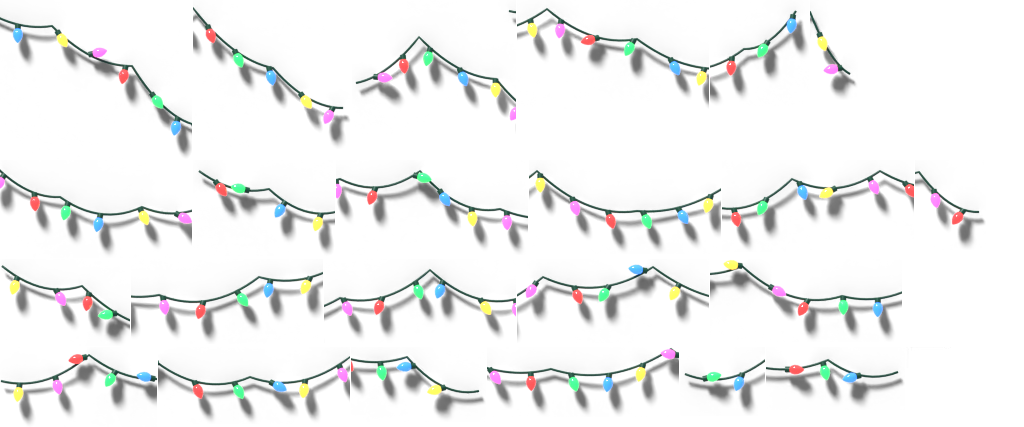
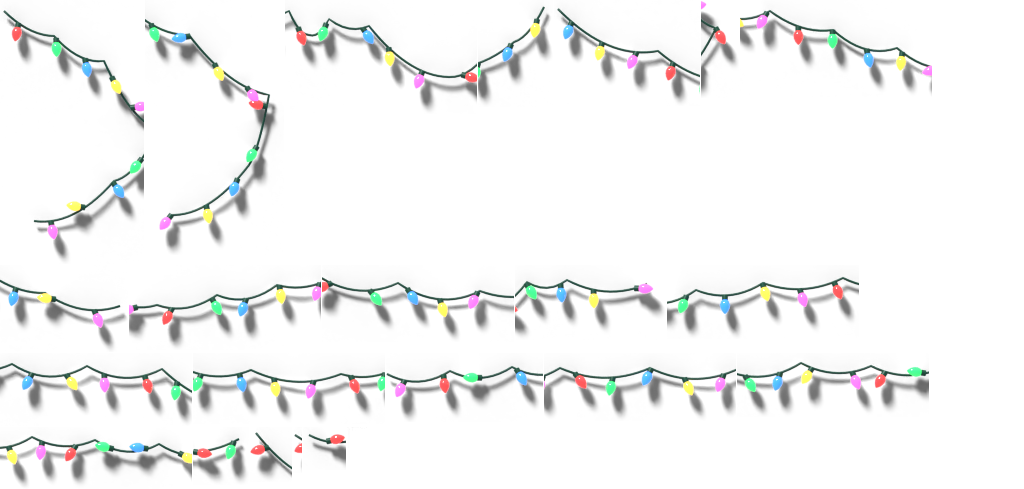
Seat the store reef's lights, move the fireplace, add Night Lite embers
- market/strings.py moves every light string anchor onto coral or rock
  and adds anchors where the wire would sag over open water. It starts
  from rough lines in art/string_guides.json and writes art/strings.json.
  Several strings had been hanging beside the arch's legs and the mound.
- The fireplace moves from the right end of the tank to between the arch
  and the mound, with its gifts in front of the mound's left end.
- In Night Lite the hearth is no longer dark: the logs show dimly with
  glowing cracks over a bright ember bed, breathing slowly. The ember
  picture is cut from the fireplace's own art by market/reef.py.

Store edition only; Rellie Reef is unchanged.

Changed region(s): [[0.0, 0.0304, 0.9688, 1.0], [0.2812, 0.0, 0.9062, 0.274]]

diff --git a/market/strings.py b/market/strings.py
@@ -1,0 +1,99 @@
+"""Seat the Christmas light strings on the reef. Requires Pillow.
+
+    python market/strings.py
+
+market/art/string_guides.json holds a rough line for each string, in tank pixels. This walks
+each line and moves it onto the coral and rock of the rendered reef (market/art/reefscape),
+so that no part of a string hangs over open water: every anchor is put on the nearest solid
+part of a structure, and where the wire would sag off the reef between two anchors another
+is added between them. A string is cut where the reef gives it nothing to rest on.
+Writes market/art/strings.json, which authoring/create_lights.py renders.
+"""
+import json
+import math
+from pathlib import Path
+
+from PIL import Image, ImageFilter
+
+ART = Path(__file__).resolve().parent / "art"
+REEF = ART / "reefscape"
+STEP, REACH, INSET = 72, 70, 5      # px between anchors; how far an anchor may move; how far inside the outline it sits
+
+
+def reef_mask():
+    """White where a structure is solid, on the tank's 3400 x 1080 canvas."""
+    mask = Image.new("L", Image.open(REEF / "plate.jpg").size, 0)
+    for info in sorted(REEF.glob("*.json")):
+        at = json.loads(info.read_text())
+        solid = Image.open(info.with_suffix(".png")).getchannel("A").point(lambda v: 255 if v > 220 else 0)
+        mask.paste(255, (at["x"], at["y"]), solid)
+    return mask
+
+
+def main():
+    mask = reef_mask()
+    inner = mask.filter(ImageFilter.MinFilter(2 * INSET + 1)).load()
+    outer = mask.load()
+    width, height = mask.size
+
+    def solid(x, y, pixels=outer):
+        x, y = round(x), round(y)
+        return 0 <= x < width and 0 <= y < height and pixels[x, y] > 0
+
+    def seat(x, y):
+        """The nearest point of the reef above or below (x, y), or None if there is none close."""
+        for away in range(REACH + 1):
+            for at in (y - away, y + away):
+                if solid(x, at, inner):
+                    return [round(x), round(at)]
+        return None
+
+    def rests(a, b):
+        """Whether the wire from a to b, sagging as create_lights.py hangs it, stays on the reef."""
+        span = math.dist(a, b)
+        sag = min(30.0, max(6.0, span * 0.13)) * 1.2
+        return all(solid(a[0] + (b[0] - a[0]) * u, a[1] + (b[1] - a[1]) * u + 4 * sag * u * (1 - u)) for u in (0.25, 0.5, 0.75))
+
+    def join(a, b, out):
+        """Add the anchors that carry the wire from a to b. False if the reef does not reach."""
+        if rests(a, b):
+            out.append(b)
+            return True
+        if math.dist(a, b) < 30:
+            return False
+        mid = seat((a[0] + b[0]) / 2, (a[1] + b[1]) / 2)
+        return mid is not None and mid not in (a, b) and join(a, mid, out) and join(mid, b, out)
+
+    guides = json.loads((ART / "string_guides.json").read_text())
+    strings = []
+    for guide in guides["strings"]:
+        # Walk the guide in even steps.
+        points, walked = [], []
+        for a, b in zip(guide["points"], guide["points"][1:]):
+            steps = max(1, round(math.dist(a, b) / STEP))
+            walked += [(a[0] + (b[0] - a[0]) * i / steps, a[1] + (b[1] - a[1]) * i / steps) for i in range(steps)]
+        walked.append(tuple(guide["points"][-1]))
+        runs = [[]]
+        for x, y in walked:
+            at = seat(x, y)
+            if at is None:
+                runs.append([])
+            elif not runs[-1]:
+                runs[-1].append(at)
+            else:
+                trial = []
+                if join(runs[-1][-1], at, trial):
+                    runs[-1] += trial
+                else:
+                    runs.append([at])
+        runs = [run for run in runs if len(run) > 2]
+        for n, run in enumerate(runs):
+            strings.append({"name": guide["name"] + (f" {n + 1}" if len(runs) > 1 else ""), "points": run})
+        length = sum(math.dist(a, b) for run in runs for a, b in zip(run, run[1:]))
+        print(f'{guide["name"]}: {len(runs)} run(s), {sum(map(len, runs))} anchors, {length:.0f} px')
+    lines = ",\n".join("  " + json.dumps(string) for string in strings)
+    (ART / "strings.json").write_text(f'{{\n "spacing": {guides["spacing"]},\n "strings": [\n{lines}\n ]\n}}\n')
+
+
+if __name__ == "__main__":
+    main()

diff --git a/market/reef.py b/market/reef.py
@@ -10,7 +10,8 @@ of app/scenes/tank.json that depends on where things are:
   * the coral maps the fish steer by, drawn from the pieces' own outlines
   * the moray, mirrored to face right and moved into the cave, with the cave's darkness to
     draw back over his tail
-  * the Christmas set at its places in layout.json, the light strings and their bulbs
+  * the Christmas set at its places in layout.json, the light strings and their bulbs,
+    and the embers that glow in the hearth in Night Lite
   * the fish and their sprite sheets, the shrimp's routes and the light shafts
 
 Running it twice changes nothing more: it works from market/art and from where the scene
@@ -101,6 +102,21 @@ def main():
     xmas["fire"]["x"], xmas["fire"]["y"] = xmas["fire"]["x"] + dx, xmas["fire"]["y"] + dy
     for key in ("hearth", "chimney"):
         xmas[key] = [xmas[key][0] + dx, xmas[key][1] + dy]
+    # Embers for the Night Lite, when the fire is out: what glows in the fireplace's own picture
+    # (the cracks in the logs and the bed under the grate), with the logs themselves left dim.
+    hearth = Image.open(IMAGES / "custom_fireplace.png").convert("RGBA")
+    left, top = xmas["fire"]["x"] - spots["fireplace"][0] + 2, xmas["fire"]["y"] - spots["fireplace"][1] + 66
+    embers = hearth.crop((left, top, left + 98, top + 60))
+    pixels = embers.load()
+    for y in range(embers.height):
+        for x in range(embers.width):
+            r, g, b, a = pixels[x, y]
+            heat = max(0.0, min(1.0, (r - 140) / 60)) * max(0.0, min(1.0, (r - 1.5 * b) / 45)) if a else 0.0
+            logs = 6 <= x <= 90 and 6 <= y <= 42       # the logs alone, not the hearth round them
+            wood = max(0.0, min(1.0, ((r + g + b) / 3 - 55) / 50)) * 0.34 if a and logs else 0.0
+            pixels[x, y] = (r, round(g * 0.9), round(b * 0.6), round(255 * heat)) if heat >= wood else (150, 40, 12, round(255 * wood))
+    embers.save(IMAGES / "xmas_embers.png")
+    xmas["embers"] = [spots["fireplace"][0] + left, spots["fireplace"][1] + top]
     lights = json.loads((ART / "lights.json").read_text())
     Image.open(ART / "lights.png").save(IMAGES / "xmas_lights.png")
 

diff --git a/market/README.md b/market/README.md
@@ -57,6 +57,7 @@ The tank and its reef are our own, rendered in Blender:
 ```sh
 blender -b --factory-startup --python-exit-code 1 -P market/authoring/create_reefscape.py
 blender -b --factory-startup --python-exit-code 1 -P market/authoring/create_surface.py
+python market/strings.py
 blender -b --factory-startup --python-exit-code 1 -P market/authoring/create_lights.py
 python market/reef.py
 python market/build.py
@@ -64,8 +65,9 @@ python market/build.py
 
 - `authoring/create_reefscape.py` builds the empty tank and three structures (an arch, a low mound of large corals, and a cave rock for the moray) and renders each on its own into `art/reefscape/`. `-- --draft` is quick and rough; `-- --only <name>` renders one structure. `authoring/reef_kit.py` holds the corals, the rock and their materials.
 - `authoring/create_surface.py` mirrors the reef in the underside of the water and bakes the ripple.
+- `strings.py` seats the light strings on the reef: `art/string_guides.json` holds a rough line for each string, and it moves every anchor onto coral or rock and adds anchors wherever the wire would sag over open water. It writes `art/strings.json`. Run it again whenever a structure is re-rendered.
 - `authoring/create_lights.py` strings Christmas lights along the anchor points in `art/strings.json`.
-- `reef.py` lays all of it into `app/`: background tiles, reef pieces, the coral maps the fish steer by, the moray mirrored into the cave, the Christmas set at its places, the bulbs, the shrimp's routes and the fish's haunts. Positions that are ours to choose are in `art/layout.json`.
+- `reef.py` lays all of it into `app/`: background tiles, reef pieces, the coral maps the fish steer by, the moray mirrored into the cave, the Christmas set at its places, the bulbs, the embers that glow in the hearth in Night Lite, the shrimp's routes and the fish's haunts. Positions that are ours to choose are in `art/layout.json`.
 
 `art/reefscape/preview.jpg` is the tank with its structures and nothing else. The moray's frames in `art/moray/` are as rendered for Rellie Reef, facing left; `reef.py` mirrors them.
 

diff --git a/market/app/NOTICE.md b/market/app/NOTICE.md
@@ -31,7 +31,7 @@ The Reef Glass release was brought into this tree on 2026-11-22. The files below
 |---|---|
 | `source/surface.brs` | Moving water surface. |
 | `source/season.brs` | Takes the Christmas set out of the scene when it is switched off. |
-| `source/christmas.brs` | Hearth fire, chimney bubbles, the bulbs on the coral light strings and on the tree, and the glow of the tree's star. |
+| `source/christmas.brs` | Hearth fire, chimney bubbles, the bulbs on the coral light strings and on the tree, the glow of the tree's star, and embers in the hearth in Night Lite. |
 | `source/santa_moray.brs` | The green moray in a Santa hat. |
 | `source/shrimp.brs` | Peppermint shrimp that walk routes over the sand and rock, stopping to clean. |
 | `images/custom_*.png`, `images/star_glow.png`, `images/surface_ripple.jpg`, `images/xmas_*.png`, `images/santa_moray.png`, `images/santa_cave.png`, `images/shrimp.png` | Added art, laid in when the channel is packaged. |

diff --git a/market/app/CREDITS.md b/market/app/CREDITS.md
@@ -19,6 +19,7 @@ them are in the repository's `authoring/` folder, or in `market/` where noted.
 | `surface_ripple.jpg` | that scene mirrored in the water's surface and rippled | `market/authoring/create_surface.py` |
 | `tang_atlas0.png`, `surgeon_atlas0.png`, `mandarin_atlas0.png`, `lionfish_atlas0.png`, `damsel_atlas0.png`, `dottyback_atlas0.png` | original procedural Blender models of six reef fish, rendered at 26 headings | `market/authoring/create_fish.py` |
 | `ray.png`, `mote.png`, `puff.png` | drawn from formulas | `market/light.py` |
+| `xmas_embers.png` | the glowing parts of the fireplace's own picture: the cracks in the logs and the bed under the grate | `market/reef.py` |
 | `santa_cave.png` | the cave's darkness, cut from our own rendered reef and faded out toward the cave mouth | `market/reef.py` |
 | `splash_*.jpg`, `icon_*.jpg` | title in Georgia; the icons carry a capture of the running tank at night | `market/branding.py` |
 
